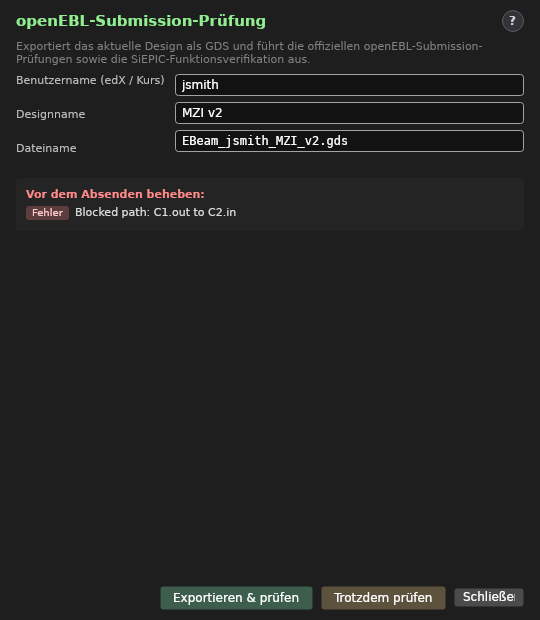
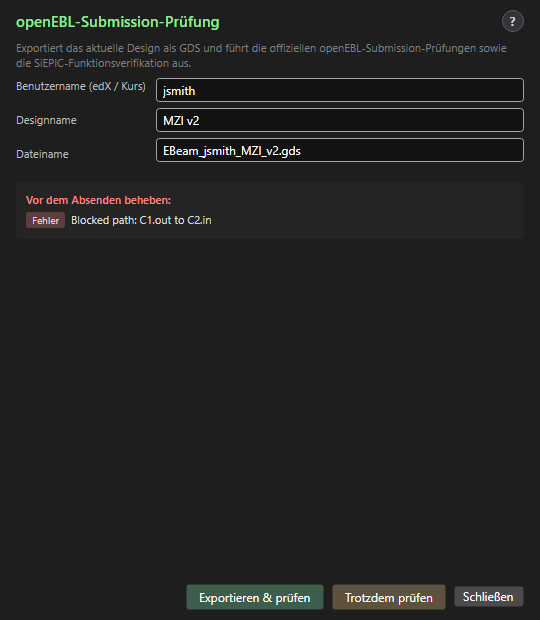
fix(openebl): Close button no longer clipped in de; pre-flight shows translated crossing findings as errors

diff --git a/CAP.Avalonia/Services/OpenEblCheck/OpenEblPreflightChecker.cs b/CAP.Avalonia/Services/OpenEblCheck/OpenEblPreflightChecker.cs
@@ -29,9 +29,21 @@ public static class OpenEblPreflightChecker
         }
 
         foreach (var issue in new DesignValidator().Validate(connections))
-            findings.Add(new OpenEblPreflightFinding(issue.Description, IsErrorType(issue.Type)));
+            findings.Add(new OpenEblPreflightFinding(FormatIssue(issue), IsErrorType(issue.Type)));
 
         return findings;
+    }
+
+    /// <summary>Translated message when the issue carries a string-table key, else its English description.</summary>
+    private static string FormatIssue(DesignIssue issue)
+    {
+        if (issue.LocalizationKey is not { } key)
+            return issue.Description;
+
+        var template = LocalizationService.Instance.Translate(key);
+        return issue.LocalizationArgs is { Count: > 0 } args
+            ? string.Format(CultureInfo.CurrentCulture, template, args as object[] ?? args.ToArray())
+            : template;
     }
 
     /// <summary>Severity mapping: findings that export broken or flat geometry are errors.</summary>
@@ -42,7 +54,8 @@ public static class OpenEblPreflightChecker
             or DesignIssueType.OverlappingPaths
             or DesignIssueType.PinMismatch
             or DesignIssueType.StyledRouteThroughComponent
-            or DesignIssueType.ComponentFootprintOverlap => true,
+            or DesignIssueType.ComponentFootprintOverlap
+            or DesignIssueType.WaveguideCrossing => true,
         _ => false,
     };
 
